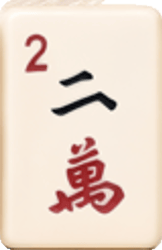
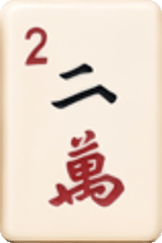
Nancy's 22 Oct list: unsquash the cover, clean tile two, smaller dice band, Resources nav tab, launch-day Join Us + Amazon button (auto on 27 Oct)
Claude-Session: https://claude.ai/code/session_01UHPqCAkogGSgTLNzpWwdKe

diff --git a/index.html b/index.html
@@ -43,6 +43,7 @@
     <a href="about.html">About Maureen</a>
     <a href="book.html">The Book</a>
     <a href="start.html">Let's Get Started</a>
+    <a href="resources.html">Resources</a>
     <a href="launch.html" class="nav-cta">Join the Launch List</a>
   </div>
 </nav>
@@ -53,7 +54,7 @@
        aria-label="The three Mahjong tiles from the cover of Ancient Game. Modern Leadership. — the Joker, the red dragon, and the two of characters">
     <img class="t-cover" src="assets/tile-joker.png" alt="" width="155" height="243" fetchpriority="high">
     <img class="t-cover" src="assets/tile-dragon.png" alt="" width="155" height="244" fetchpriority="high">
-    <img class="t-cover" src="assets/tile-two-wan.png" alt="" width="162" height="250" fetchpriority="high">
+    <img class="t-cover" src="assets/tile-two-wan.png" alt="" width="162" height="243" fetchpriority="high">
   </div>
   <h1 class="reveal d1">Ancient Game.<br><span class="g">Modern Leadership.</span></h1>
   <p class="hook reveal d2">What can an ancient tile game teach today's leaders? <em>More than you might imagine.</em></p>
@@ -68,7 +69,7 @@
 
 <!-- ============ PHOTO BAND ============ -->
 <section class="act tight" style="padding-top:0">
-  <figure class="photo-band reveal">
+  <figure class="photo-band reveal" style="max-width:820px">
     <img src="assets/photos/ai-tile-dice-2.jpg" width="1256" height="619" alt="A Mahjong tile and two dice on green felt" loading="lazy">
   </figure>
 </section>
@@ -76,7 +77,7 @@
 <!-- ============ THE BOOK (teaser) ============ -->
 <section class="act">
   <div class="book">
-    <div class="cov reveal"><span class="soon">Coming Soon</span><img src="assets/book-cover.png" width="939" height="1414" alt="Cover of Ancient Game. Modern Leadership. by Maureen A. Cahill"></div>
+    <div class="cov reveal"><span class="soon" data-prelaunch>Coming Soon</span><img src="assets/book-cover.png" width="939" height="1414" alt="Cover of Ancient Game. Modern Leadership. by Maureen A. Cahill"></div>
     <div>
       <p class="eyebrow reveal">The Book</p>
       <h2 class="reveal d1">Ten parallels. One timeless game.<br><span style="color:var(--gold)">A simpler way to lead.</span></h2>
@@ -145,9 +146,10 @@
 
 <!-- ============ LAUNCH LIST ============ -->
 <section class="act">
-  <p class="eyebrow reveal">Be First</p>
-  <h2 class="reveal d1" style="font-size:clamp(2rem,5vw,3rem);color:var(--ivory)">Join the Launch List</h2>
-  <p class="lead reveal d2" style="margin-top:12px">Get leadership insights, book updates, speaking announcements, and occasional behind-the-scenes notes as <em>Ancient Game. Modern Leadership.</em> makes its way into the world.</p>
+  <p class="eyebrow reveal"><span data-prelaunch>Be First</span><span data-launched hidden>Stay Connected</span></p>
+  <h2 class="reveal d1" style="font-size:clamp(2rem,5vw,3rem);color:var(--ivory)"><span data-prelaunch>Join the Launch List</span><span data-launched hidden>Join Us</span></h2>
+  <p class="lead reveal d2" style="margin-top:12px" data-launched hidden>Leadership insights, book updates, and speaking announcements from Maureen, straight to your inbox.</p>
+  <p class="lead reveal d2" style="margin-top:12px" data-prelaunch>Get leadership insights, book updates, speaking announcements, and occasional behind-the-scenes notes as <em>Ancient Game. Modern Leadership.</em> makes its way into the world.</p>
   <div class="capture reveal d2">
     <form data-capture data-source="Launch List (Home)">
       <div class="fields">
@@ -155,7 +157,7 @@
         <input type="email" name="Email" placeholder="your@email.com" required aria-label="Your email">
       </div>
       <div class="fields" style="margin-top:10px">
-        <button type="submit" class="btn btn-red" style="flex:1">Join the Launch List →</button>
+        <button type="submit" class="btn btn-red" style="flex:1"><span data-prelaunch>Join the Launch List →</span><span data-launched hidden>Join Us →</span></button>
       </div>
       <p class="note">No spam. Leadership insights and book news only — unsubscribe any time.</p>
     </form>
@@ -168,7 +170,7 @@
   <a class="brand serif" href="index.html">Maureen A. Cahill</a>
   <div class="footlinks">
     <a href="index.html">Home</a><a href="about.html">About Maureen</a><a href="book.html">The Book</a>
-    <a href="start.html">Let's Get Started</a><a href="launch.html">Join the Launch List</a>
+    <a href="start.html">Let's Get Started</a><a href="resources.html">Resources</a><a href="launch.html">Join the Launch List</a>
   </div>
   <div class="footsocial">
     <a href="https://www.linkedin.com/in/maureencahill" target="_blank" rel="noopener" aria-label="Maureen A. Cahill on LinkedIn" title="LinkedIn">

diff --git a/launch.html b/launch.html
@@ -39,6 +39,7 @@
     <a href="about.html">About Maureen</a>
     <a href="book.html">The Book</a>
     <a href="start.html">Let's Get Started</a>
+    <a href="resources.html">Resources</a>
     <a href="launch.html" class="nav-cta current">Join the Launch List</a>
   </div>
 </nav>
@@ -52,11 +53,14 @@
   <p class="eyebrow reveal"><span data-prelaunch>Be First</span><span data-launched hidden>Stay Connected</span></p>
   <h1 class="reveal d1" style="font-size:clamp(2.2rem,6.2vw,4.4rem);color:var(--ivory);margin-top:10px">
     <span data-prelaunch>Join the <span style="color:var(--gold)">Launch List</span></span>
-    <span data-launched hidden>Stay <span style="color:var(--gold)">Connected</span></span>
+    <span data-launched hidden>Join <span style="color:var(--gold)">Us</span></span>
   </h1>
-  <p class="lead reveal d2" style="margin-top:22px">
+  <p class="lead reveal d2" style="margin-top:22px" data-prelaunch>
     Get leadership insights, book updates, speaking announcements, and occasional behind-the-scenes notes
     as <em>Ancient Game. Modern Leadership.</em> makes its way into the world.
+  </p>
+  <p class="lead reveal d2" style="margin-top:22px" data-launched hidden>
+    Leadership insights, book updates, and speaking announcements from Maureen, straight to your inbox.
   </p>
 
   <div class="capture reveal d2">
@@ -66,11 +70,11 @@
         <input type="email" name="Email" placeholder="your@email.com" required aria-label="Your email">
       </div>
       <div class="fields" style="margin-top:10px">
-        <button type="submit" class="btn btn-red" style="flex:1"><span data-prelaunch>Join the Launch List →</span><span data-launched hidden>Stay Connected →</span></button>
+        <button type="submit" class="btn btn-red" style="flex:1"><span data-prelaunch>Join the Launch List →</span><span data-launched hidden>Join Us →</span></button>
       </div>
       <p class="note">No spam. Leadership insights and book news only — unsubscribe any time.</p>
     </form>
-    <div class="form-ok">✓ Thank you — you're signed up for launch day. If an email from
+    <div class="form-ok">✓ Thank you — you're signed up<span data-prelaunch> for launch day</span>. If an email from
       Maureen A. Cahill asks you to confirm, click the link so you stay on the list. Check spam if you don't see it.</div>
   </div>
 </header>
@@ -103,7 +107,7 @@
   <a class="brand serif" href="index.html">Maureen A. Cahill</a>
   <div class="footlinks">
     <a href="index.html">Home</a><a href="about.html">About Maureen</a><a href="book.html">The Book</a>
-    <a href="start.html">Let's Get Started</a><a href="launch.html">Join the Launch List</a>
+    <a href="start.html">Let's Get Started</a><a href="resources.html">Resources</a><a href="launch.html">Join the Launch List</a>
   </div>
   <div class="footsocial">
     <a href="https://www.linkedin.com/in/maureencahill" target="_blank" rel="noopener" aria-label="Maureen A. Cahill on LinkedIn" title="LinkedIn">

diff --git a/assets/site.js b/assets/site.js
@@ -25,9 +25,12 @@ const LESSONS = [
 ];
 
 /* ---- launch switch ----
-   Flip to true on launch day: the nav's "Join the Launch List" becomes
-   "Reader Resources", and launch.html re-titles itself "Stay Connected". */
-const BOOK_LAUNCHED = false;
+   Turns itself on at midnight Central on launch day, so nothing has to be
+   pushed at 12:01. From then on every "Join the Launch List" reads "Join Us"
+   (Nancy, 22 Oct), the buy buttons appear and the pre-launch asks hide.
+   Resources has its own nav tab now, so the CTA no longer becomes it.     */
+const LAUNCH_DATE = new Date('2026-10-27T00:00:00-05:00');
+const BOOK_LAUNCHED = new Date() >= LAUNCH_DATE;
 
 /* Where the book can actually be bought. Empty until Maureen has the Amazon
    link — and while it is empty NOTHING changes on the page, so this can sit
@@ -41,7 +44,7 @@ const BOOK_LAUNCHED = false;
    button appears; leave it empty and it stays hidden. Adding a fourth is one
    more line — no layout work on launch morning.                            */
 const BUY_LINKS = [
-  { label: 'Buy on Amazon',      url: '' },
+  { label: 'Buy on Amazon',      url: 'https://www.amazon.com/dp/B0HNTCZZHF' },
   { label: 'Buy on Bookshop.org', url: '' }
 ];
 
@@ -219,16 +222,19 @@ function submitChapterGate(e){
 function applyLaunchState(){
   applyBuyLink();
   if (!BOOK_LAUNCHED) return;
-  document.querySelectorAll('a[href="launch.html"].nav-cta').forEach(a => { a.textContent = 'Reader Resources'; a.href = 'resources.html'; });
+  document.querySelectorAll('a[href$="launch.html"]').forEach(a => {
+    if (/Join the Launch List/.test(a.textContent)) a.textContent = a.textContent.replace('Join the Launch List', 'Join Us');
+  });
+  if (document.title.startsWith('Join the Launch List')) document.title = document.title.replace('Join the Launch List', 'Join Us');
   document.querySelectorAll('[data-prelaunch]').forEach(el => el.hidden = true);
   document.querySelectorAll('[data-launched]').forEach(el => el.hidden = false);
 }
 
-/* Buy buttons appear only once there is somewhere to send people. Deliberately
-   independent of BOOK_LAUNCHED: if the retailer listing goes live early, the
-   link can be switched on without changing anything else. */
+/* Buy buttons appear only once there is somewhere to send people, and not
+   before launch day: the Amazon listing went live early, but launch-day sales
+   are the ones that count for rank, so the buttons wait for LAUNCH_DATE. */
 function applyBuyLink(){
-  const live = BUY_LINKS.filter(b => b.url);
+  const live = BOOK_LAUNCHED ? BUY_LINKS.filter(b => b.url) : [];
   const slots = document.querySelectorAll('[data-buy]');
   if (!slots.length) return;
 

diff --git a/book.html b/book.html
@@ -41,6 +41,7 @@
     <a href="about.html">About Maureen</a>
     <a href="book.html" class="current">The Book</a>
     <a href="start.html">Let's Get Started</a>
+    <a href="resources.html">Resources</a>
     <a href="launch.html" class="nav-cta">Join the Launch List</a>
   </div>
 </nav>
@@ -79,7 +80,7 @@
 <!-- ============ THE PITCH ============ -->
 <section class="act tight">
   <div class="book">
-    <div class="cov reveal"><span class="soon">Coming Soon</span><img src="assets/book-cover.png" width="939" height="1414" alt="Cover of Ancient Game. Modern Leadership. by Maureen A. Cahill"></div>
+    <div class="cov reveal"><span class="soon" data-prelaunch>Coming Soon</span><img src="assets/book-cover.png" width="939" height="1414" alt="Cover of Ancient Game. Modern Leadership. by Maureen A. Cahill"></div>
     <div>
       <p class="reveal d1" style="font-family:'Cormorant Garamond',serif;font-style:italic;font-size:clamp(1.4rem,3.2vw,2rem);color:var(--gold);line-height:1.4;margin-bottom:22px">
         What if one of the world's oldest games held some of leadership's most enduring lessons?
@@ -260,7 +261,7 @@
   <a class="brand serif" href="index.html">Maureen A. Cahill</a>
   <div class="footlinks">
     <a href="index.html">Home</a><a href="about.html">About Maureen</a><a href="book.html">The Book</a>
-    <a href="start.html">Let's Get Started</a><a href="launch.html">Join the Launch List</a>
+    <a href="start.html">Let's Get Started</a><a href="resources.html">Resources</a><a href="launch.html">Join the Launch List</a>
   </div>
   <div class="footsocial">
     <a href="https://www.linkedin.com/in/maureencahill" target="_blank" rel="noopener" aria-label="Maureen A. Cahill on LinkedIn" title="LinkedIn">

diff --git a/about.html b/about.html
@@ -40,6 +40,7 @@
     <a href="about.html" class="current">About Maureen</a>
     <a href="book.html">The Book</a>
     <a href="start.html">Let's Get Started</a>
+    <a href="resources.html">Resources</a>
     <a href="launch.html" class="nav-cta">Join the Launch List</a>
   </div>
 </nav>
@@ -150,7 +151,7 @@
   <a class="brand serif" href="index.html">Maureen A. Cahill</a>
   <div class="footlinks">
     <a href="index.html">Home</a><a href="about.html">About Maureen</a><a href="book.html">The Book</a>
-    <a href="start.html">Let's Get Started</a><a href="launch.html">Join the Launch List</a>
+    <a href="start.html">Let's Get Started</a><a href="resources.html">Resources</a><a href="launch.html">Join the Launch List</a>
   </div>
   <div class="footsocial">
     <a href="https://www.linkedin.com/in/maureencahill" target="_blank" rel="noopener" aria-label="Maureen A. Cahill on LinkedIn" title="LinkedIn">

diff --git a/resources.html b/resources.html
@@ -39,6 +39,7 @@
     <a href="about.html">About Maureen</a>
     <a href="book.html">The Book</a>
     <a href="start.html">Let's Get Started</a>
+    <a href="resources.html" class="current">Resources</a>
     <a href="launch.html" class="nav-cta">Join the Launch List</a>
   </div>
 </nav>
@@ -140,7 +141,7 @@
   <a class="brand serif" href="index.html">Maureen A. Cahill</a>
   <div class="footlinks">
     <a href="index.html">Home</a><a href="about.html">About Maureen</a><a href="book.html">The Book</a>
-    <a href="start.html">Let's Get Started</a><a href="launch.html">Join the Launch List</a>
+    <a href="start.html">Let's Get Started</a><a href="resources.html">Resources</a><a href="launch.html">Join the Launch List</a>
   </div>
   <div class="footsocial">
     <a href="https://www.linkedin.com/in/maureencahill" target="_blank" rel="noopener" aria-label="Maureen A. Cahill on LinkedIn" title="LinkedIn">

diff --git a/start.html b/start.html
@@ -40,6 +40,7 @@
     <a href="about.html">About Maureen</a>
     <a href="book.html">The Book</a>
     <a href="start.html" class="current">Let's Get Started</a>
+    <a href="resources.html">Resources</a>
     <a href="launch.html" class="nav-cta">Join the Launch List</a>
   </div>
 </nav>
@@ -237,7 +238,7 @@
   <a class="brand serif" href="index.html">Maureen A. Cahill</a>
   <div class="footlinks">
     <a href="index.html">Home</a><a href="about.html">About Maureen</a><a href="book.html">The Book</a>
-    <a href="start.html">Let's Get Started</a><a href="launch.html">Join the Launch List</a>
+    <a href="start.html">Let's Get Started</a><a href="resources.html">Resources</a><a href="launch.html">Join the Launch List</a>
   </div>
   <div class="footsocial">
     <a href="https://www.linkedin.com/in/maureencahill" target="_blank" rel="noopener" aria-label="Maureen A. Cahill on LinkedIn" title="LinkedIn">

diff --git a/parallel-6.html b/parallel-6.html
@@ -67,6 +67,7 @@
     <a href="about.html">About Maureen</a>
     <a href="book.html">The Book</a>
     <a href="start.html">Let's Get Started</a>
+    <a href="resources.html">Resources</a>
     <a href="launch.html" class="nav-cta">Join the Launch List</a>
   </div>
 </nav>
@@ -375,7 +376,7 @@
   <a class="brand serif" href="index.html">Maureen A. Cahill</a>
   <div class="footlinks">
     <a href="index.html">Home</a><a href="about.html">About Maureen</a><a href="book.html">The Book</a>
-    <a href="start.html">Let's Get Started</a><a href="launch.html">Join the Launch List</a>
+    <a href="start.html">Let's Get Started</a><a href="resources.html">Resources</a><a href="launch.html">Join the Launch List</a>
   </div>
   <div class="footsocial">
     <a href="https://www.linkedin.com/in/maureencahill" target="_blank" rel="noopener" aria-label="Maureen A. Cahill on LinkedIn" title="LinkedIn">

diff --git a/tap/index.html b/tap/index.html
@@ -130,7 +130,7 @@
     <div class="tiles">
       <img src="/assets/tile-joker.png" alt="" width="155" height="243">
       <img src="/assets/tile-dragon.png" alt="" width="155" height="244">
-      <img src="/assets/tile-two-wan.png" alt="" width="162" height="250">
+      <img src="/assets/tile-two-wan.png" alt="" width="162" height="243">
     </div>
     <h1>Maureen A. Cahill</h1>
     <div class="role">Executive Coach · Speaker · Author</div>

diff --git a/assets/site.css b/assets/site.css
@@ -14,7 +14,7 @@ body{background:var(--felt0);color:var(--ink);font-family:'Inter',system-ui,sans
 .serif{font-family:'Cormorant Garamond',Georgia,serif}
 h1,h2,h3{font-family:'Cormorant Garamond',Georgia,serif;font-weight:600;line-height:1.06}
 a{color:inherit;text-decoration:none}
-img{max-width:100%}
+img{max-width:100%;height:auto}
 [hidden]{display:none!important}
 
 /* ---------- the living table environment (fixed backdrop) ---------- */
